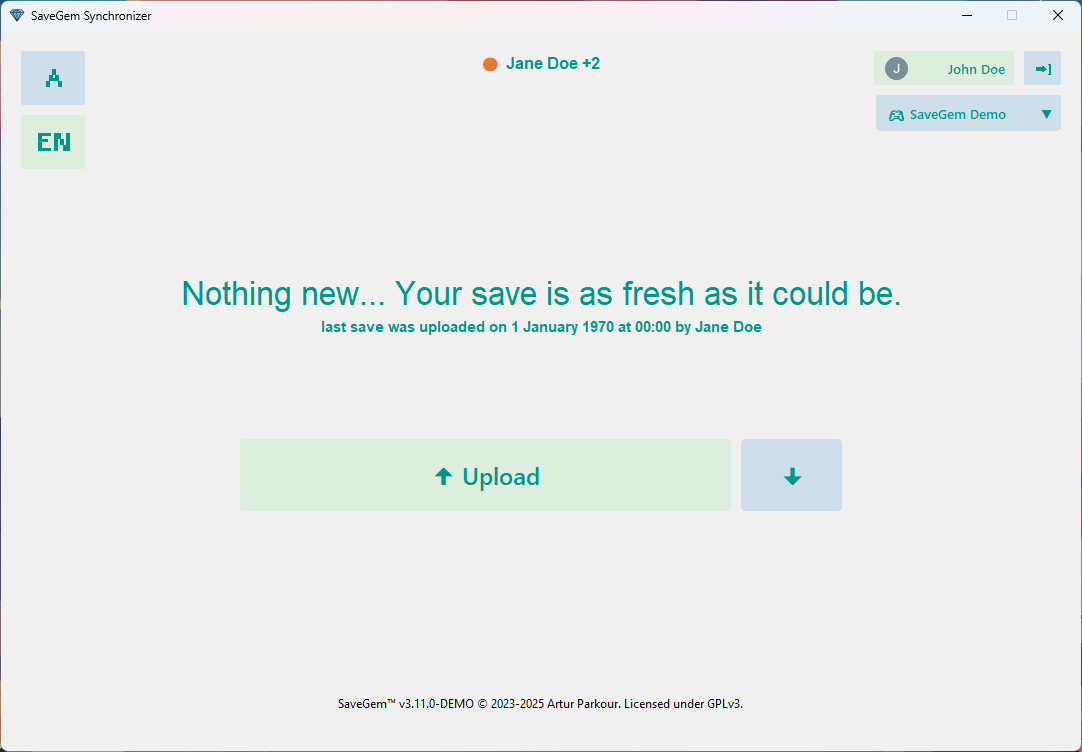
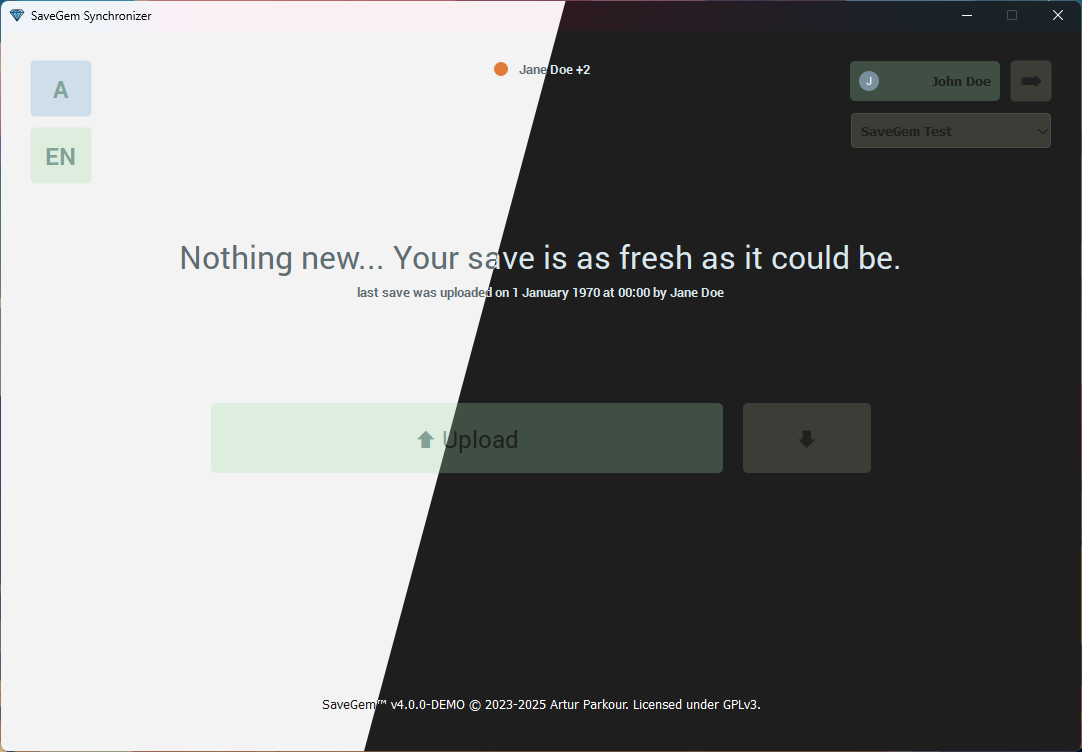
Update application demo image; Fix issue in active players badge

diff --git a/savegem/app/gui/builder/active_players.py b/savegem/app/gui/builder/active_players.py
@@ -31,13 +31,13 @@ class ActivePlayersBuilder(UIBuilder):
         self.__add_section(gui)
 
     def refresh(self, gui: _GUI):
+        players = app.activity.players
         players_label = tr("label_Offline")
-        players_online = len(app.activity.players) > 0
         is_disabled = "true"
 
-        if players_online:
-            players_label = app.activity.players.pop(0)
-            remaining_players = len(app.activity.players)
+        if len(players) > 0:
+            players_label = players.pop(0)
+            remaining_players = len(players)
             is_disabled = "false"
 
             if remaining_players > 0:
